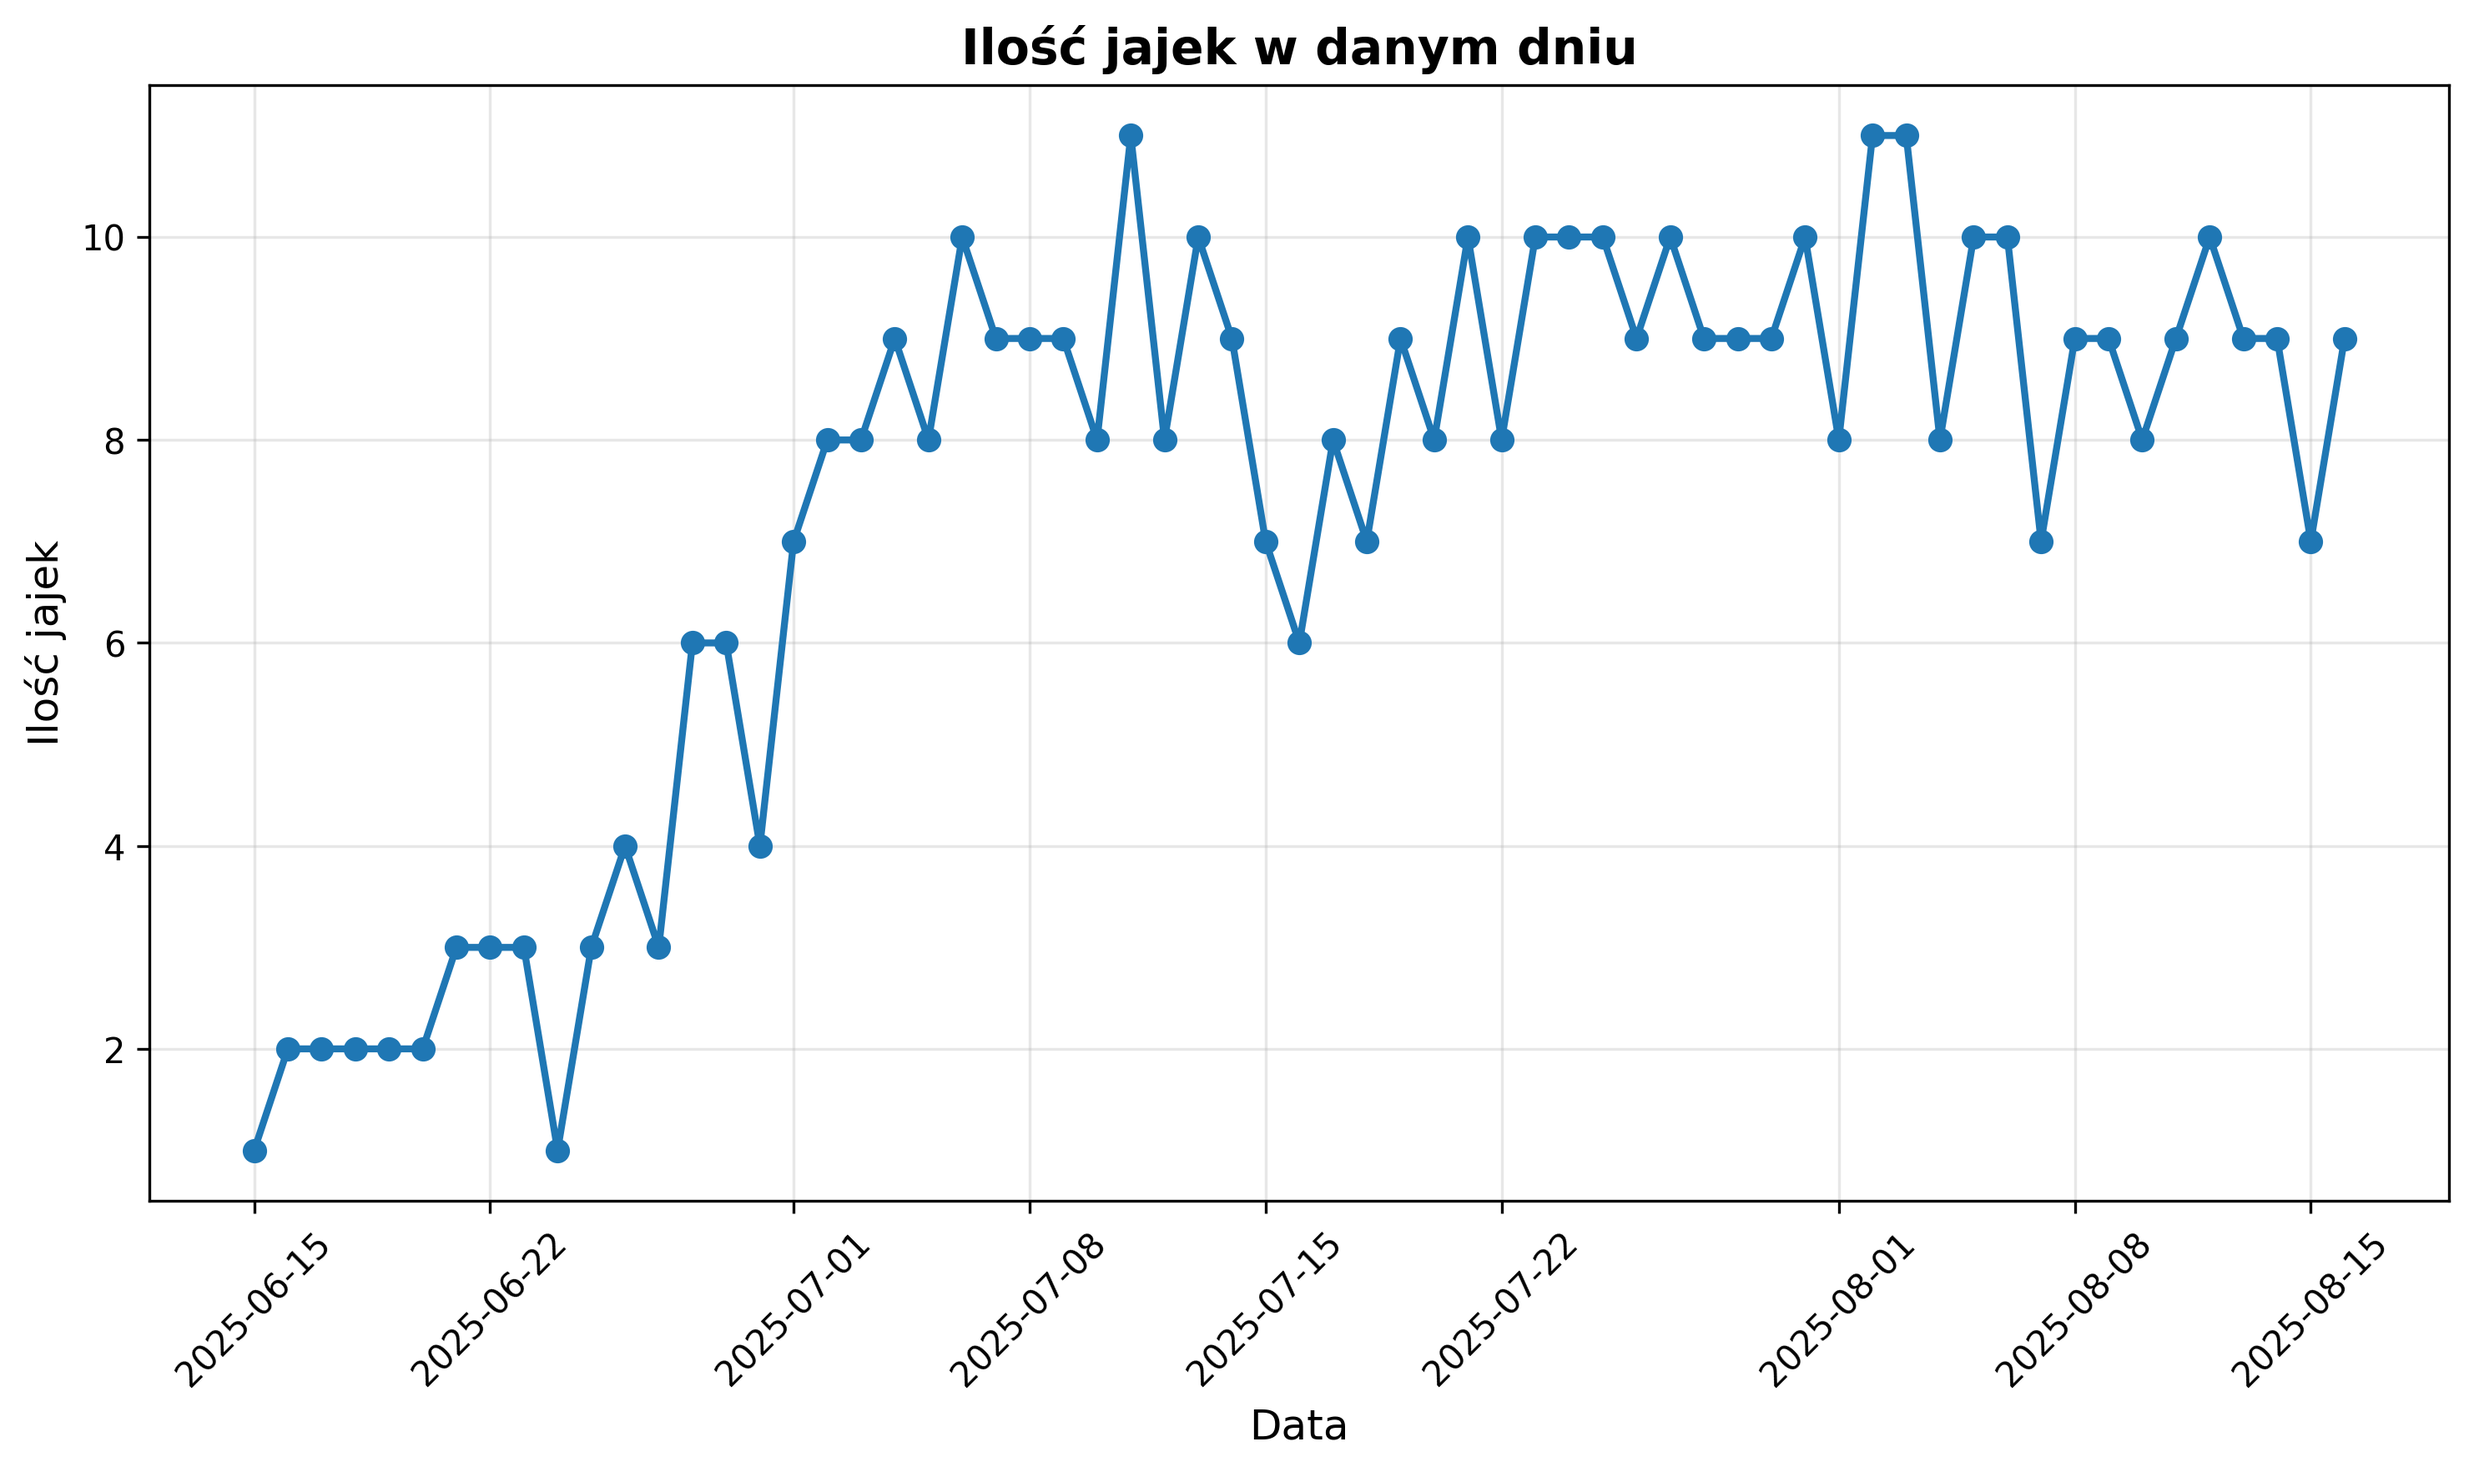
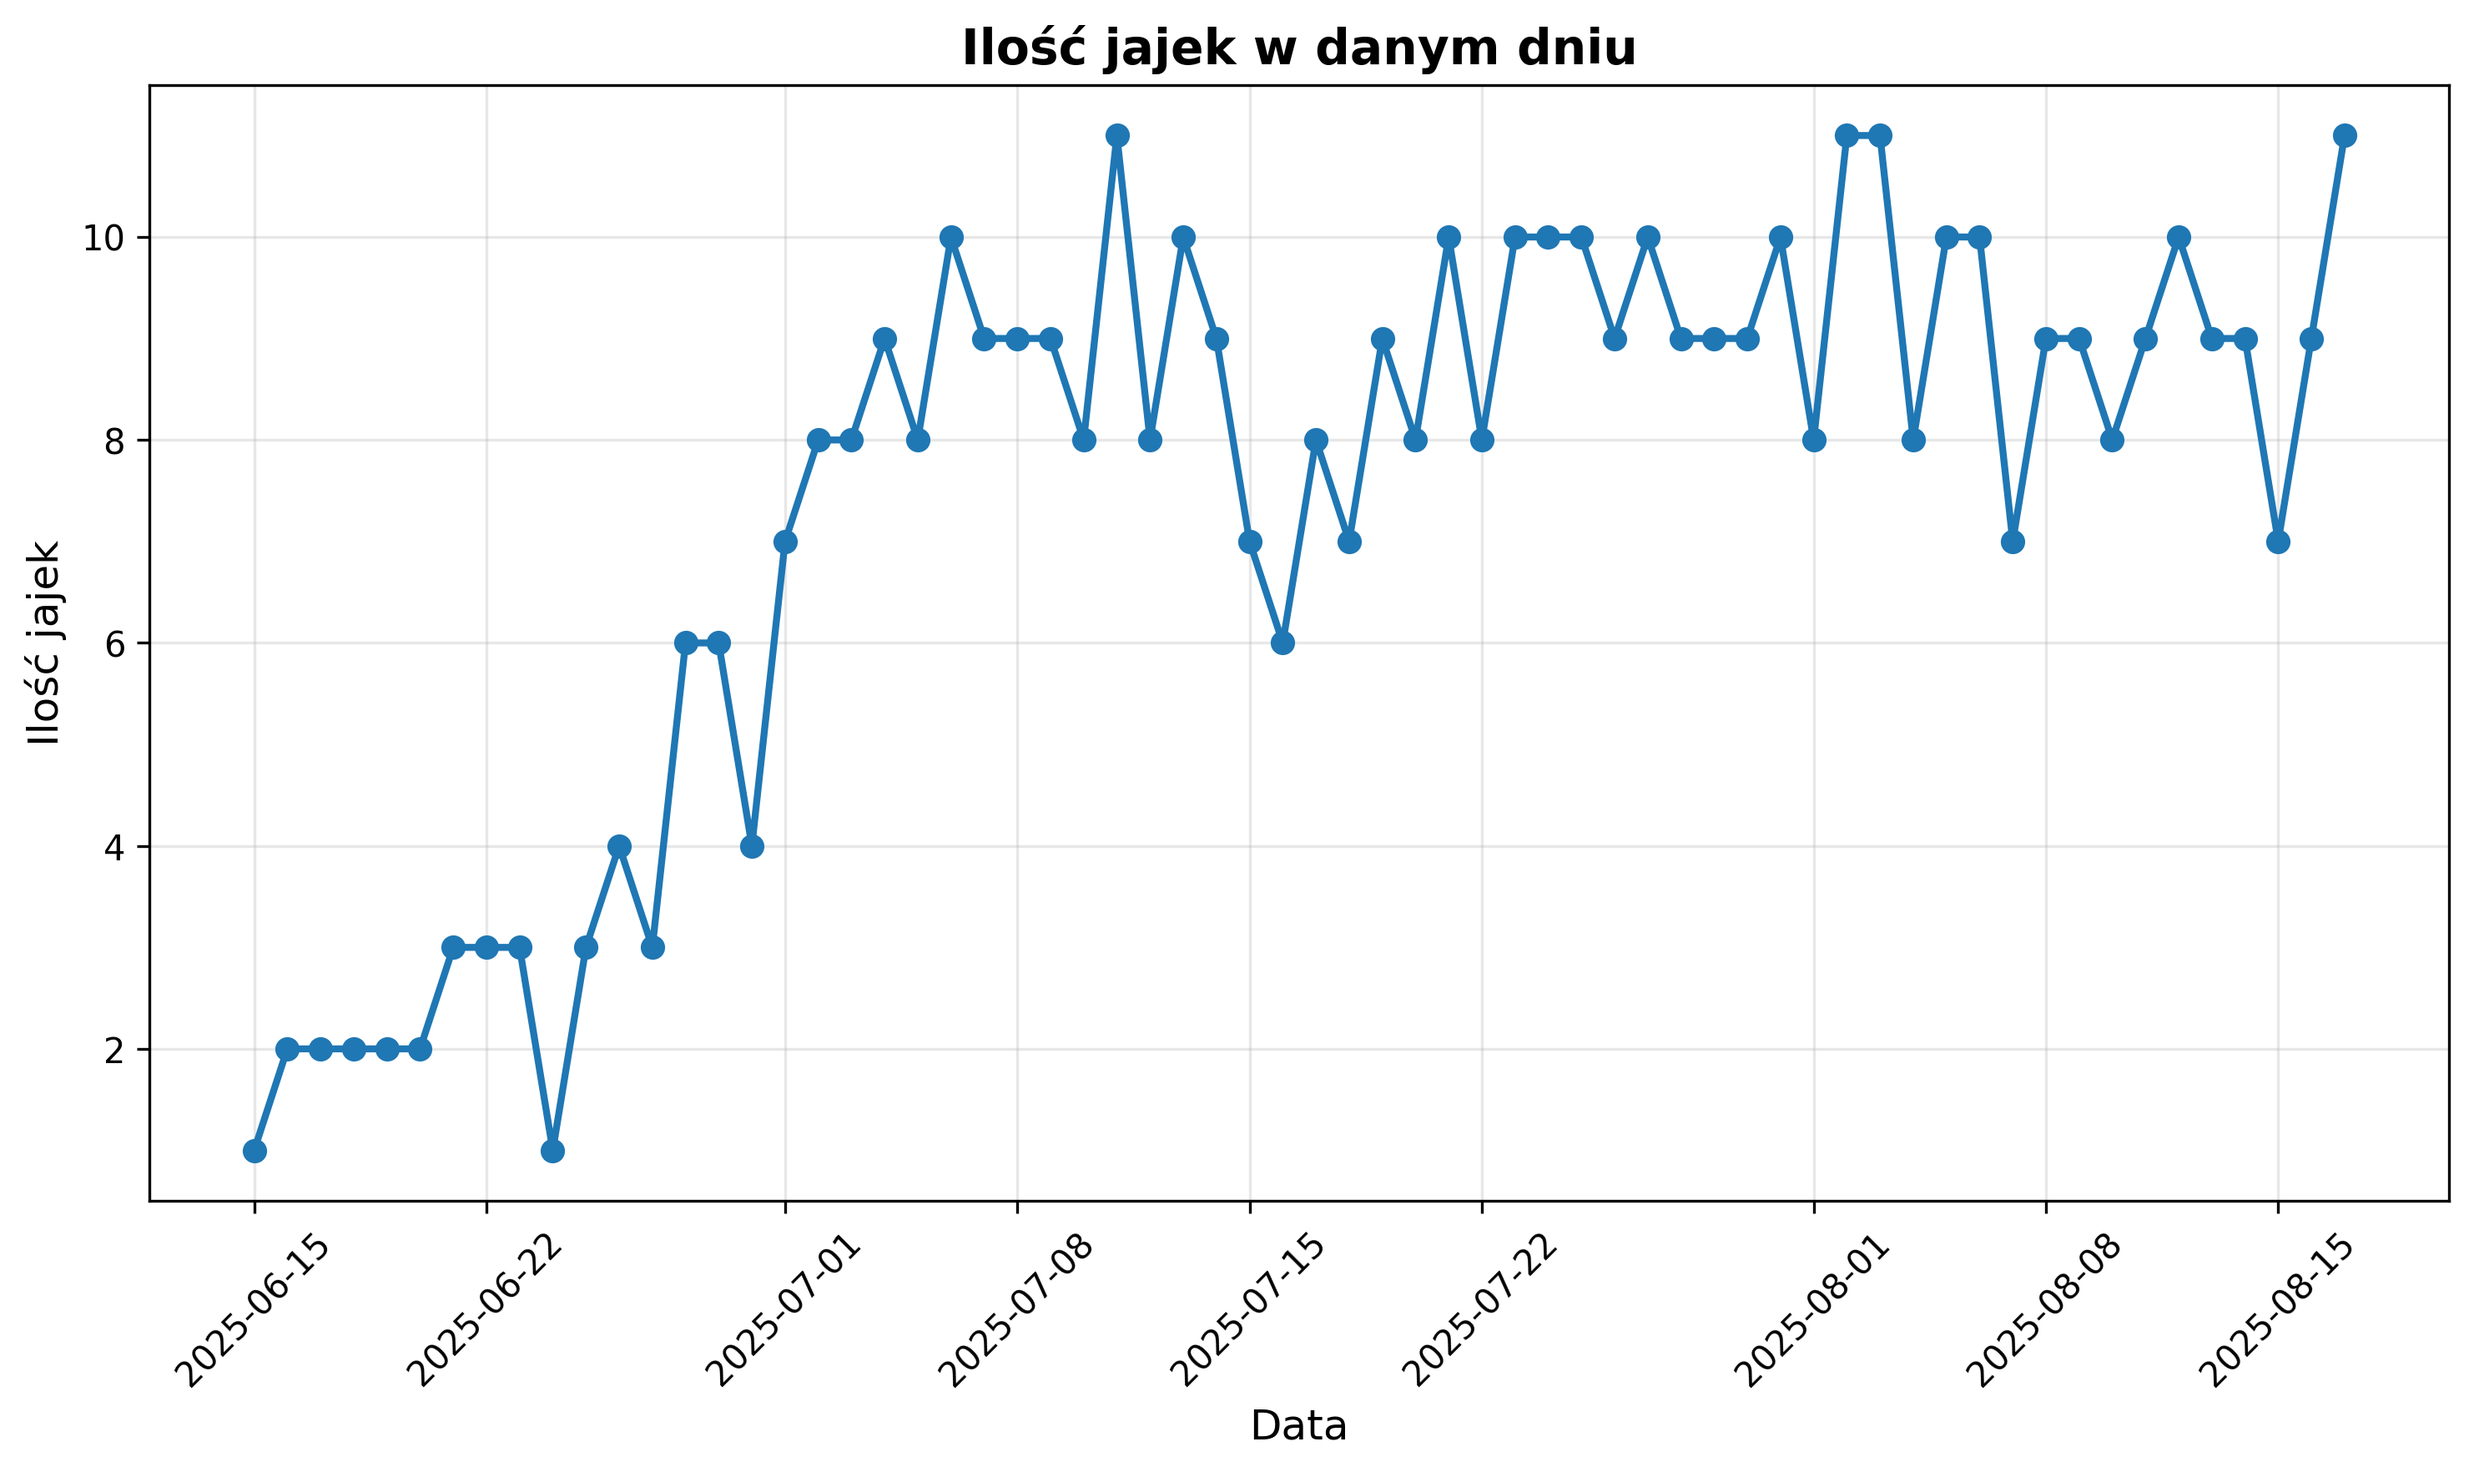
Chart update

diff --git a/jajka.html b/jajka.html
@@ -7,7 +7,7 @@
 </head>
 <body>
     <div style="font-size: 20px; font-style: italic;">Ostatnia aktualizacja:</div>
-    <div style="font-size: 18px; font-style: italic; color: red;">2025-08-16 20:34:43</div>
+    <div style="font-size: 18px; font-style: italic; color: red;">2025-08-18 07:34:45</div>
     <img src="img/chart.png" alt="" style="width: 100vw; height: 100vh; object-fit: contain; display: block; margin: 0 auto; position: absolute; top: 50%; left: 50%; transform: translate(-50%, -50%);">
 </body>
 </html>
